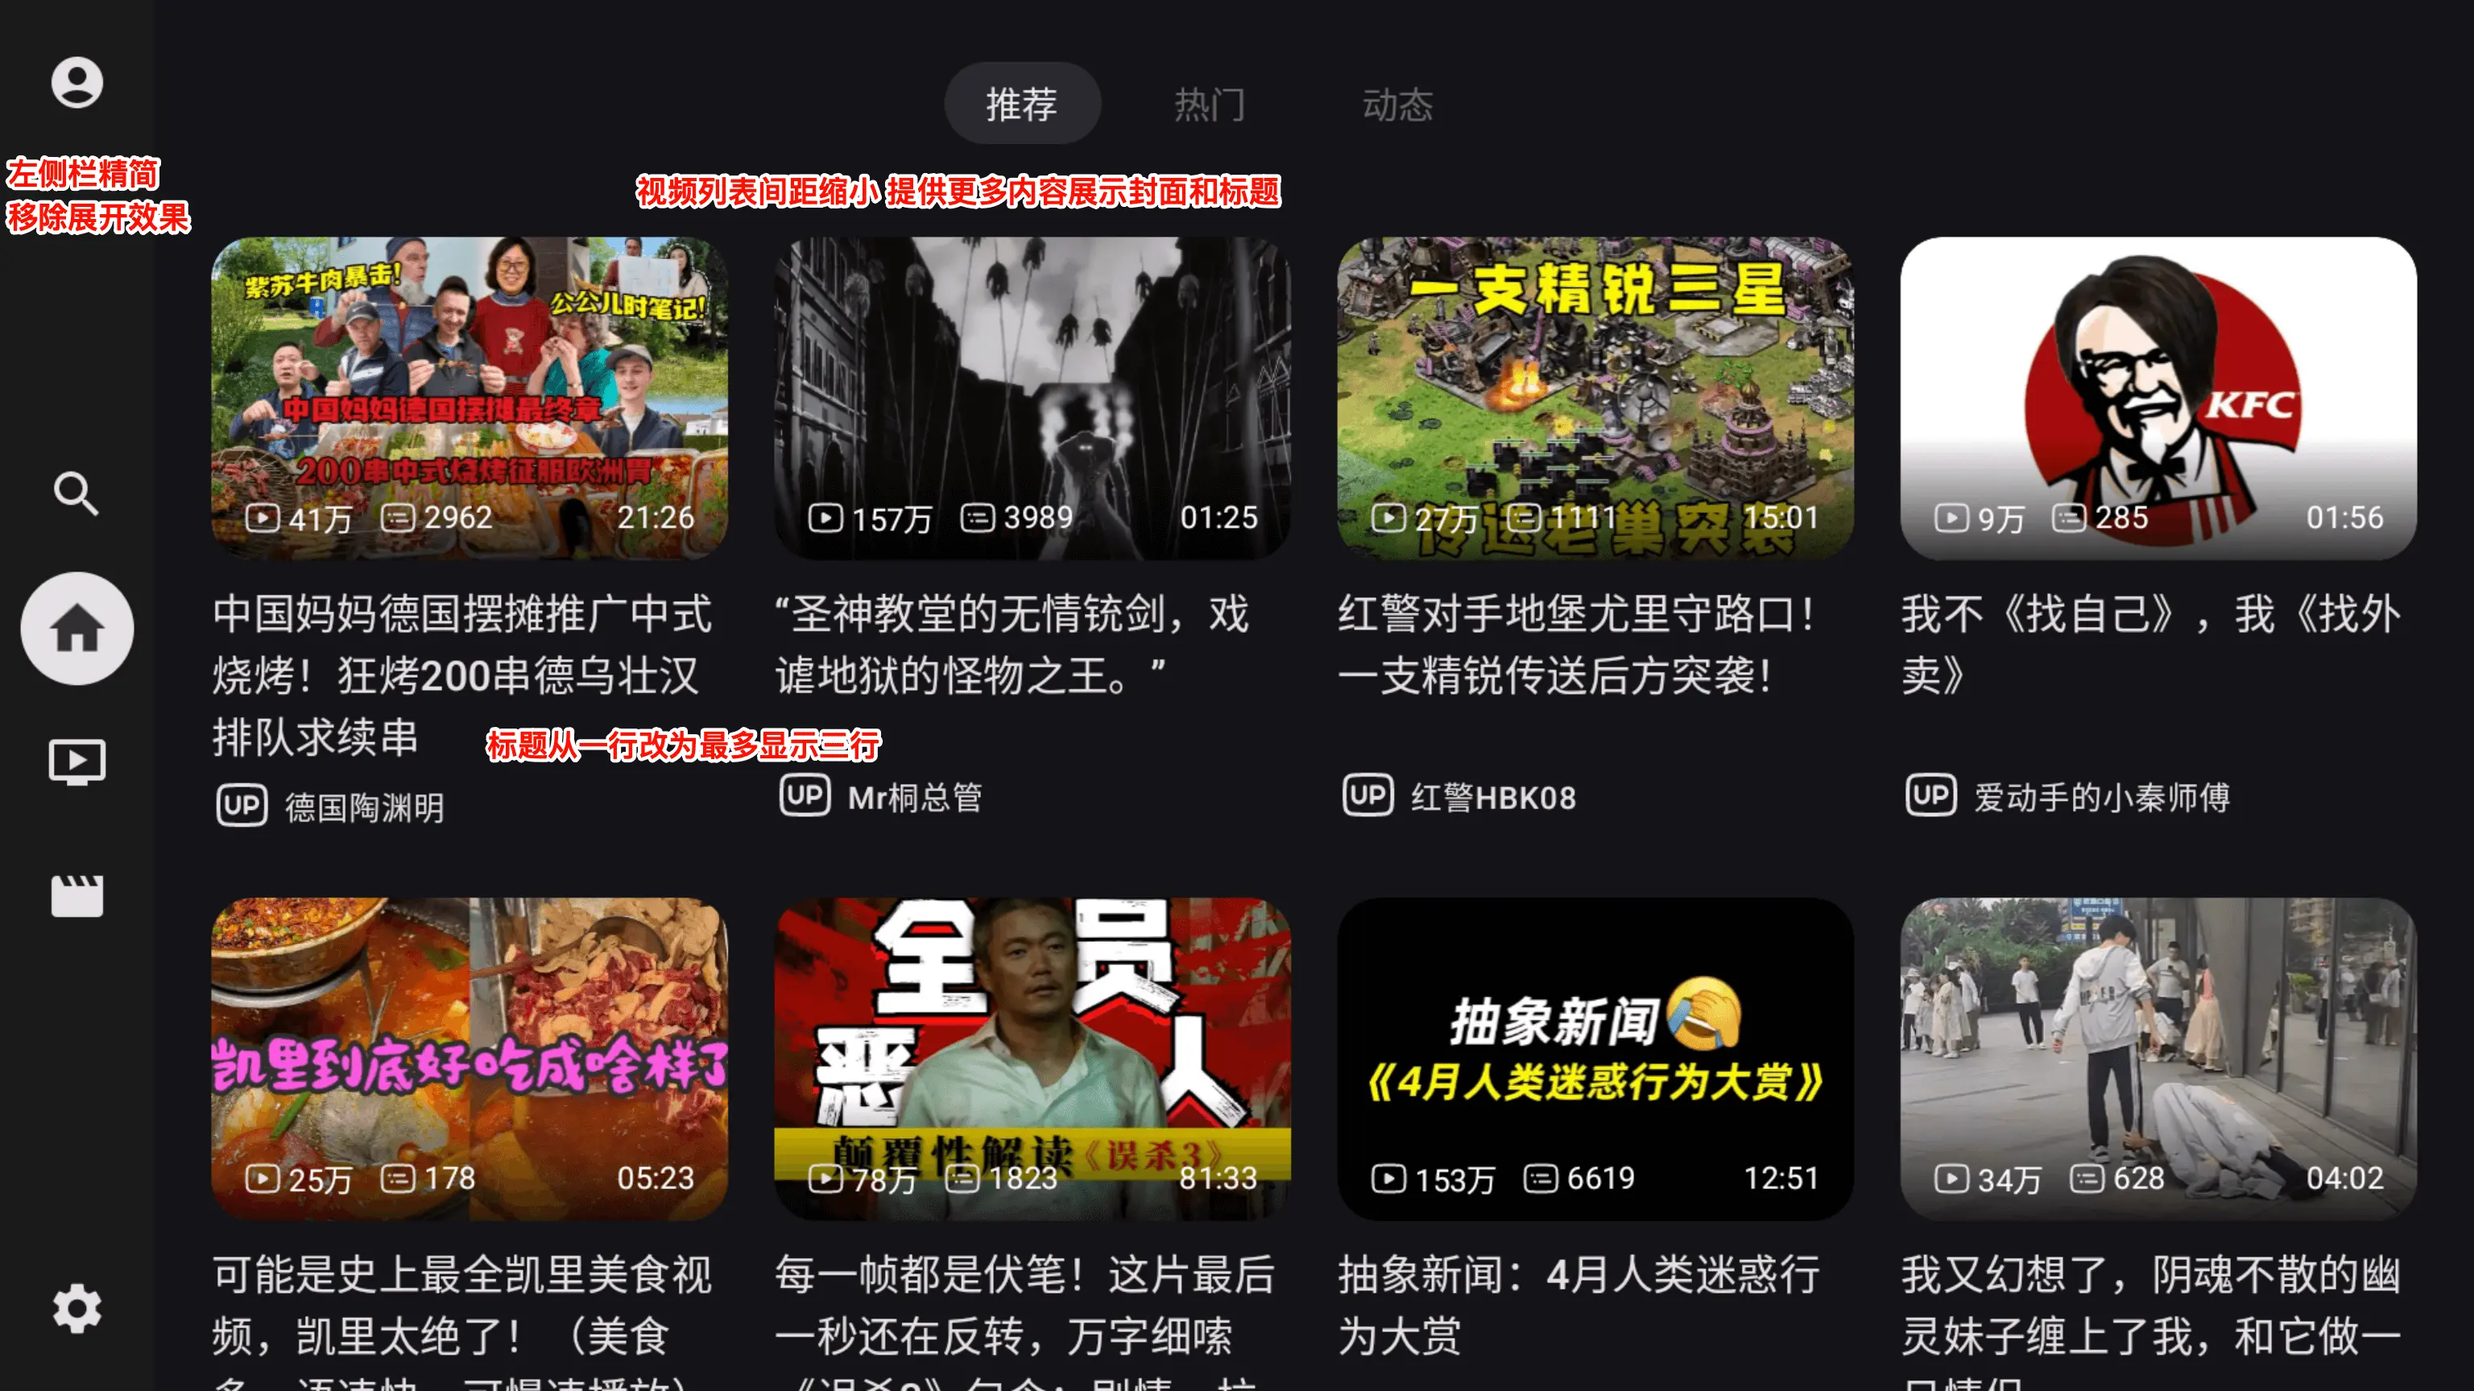
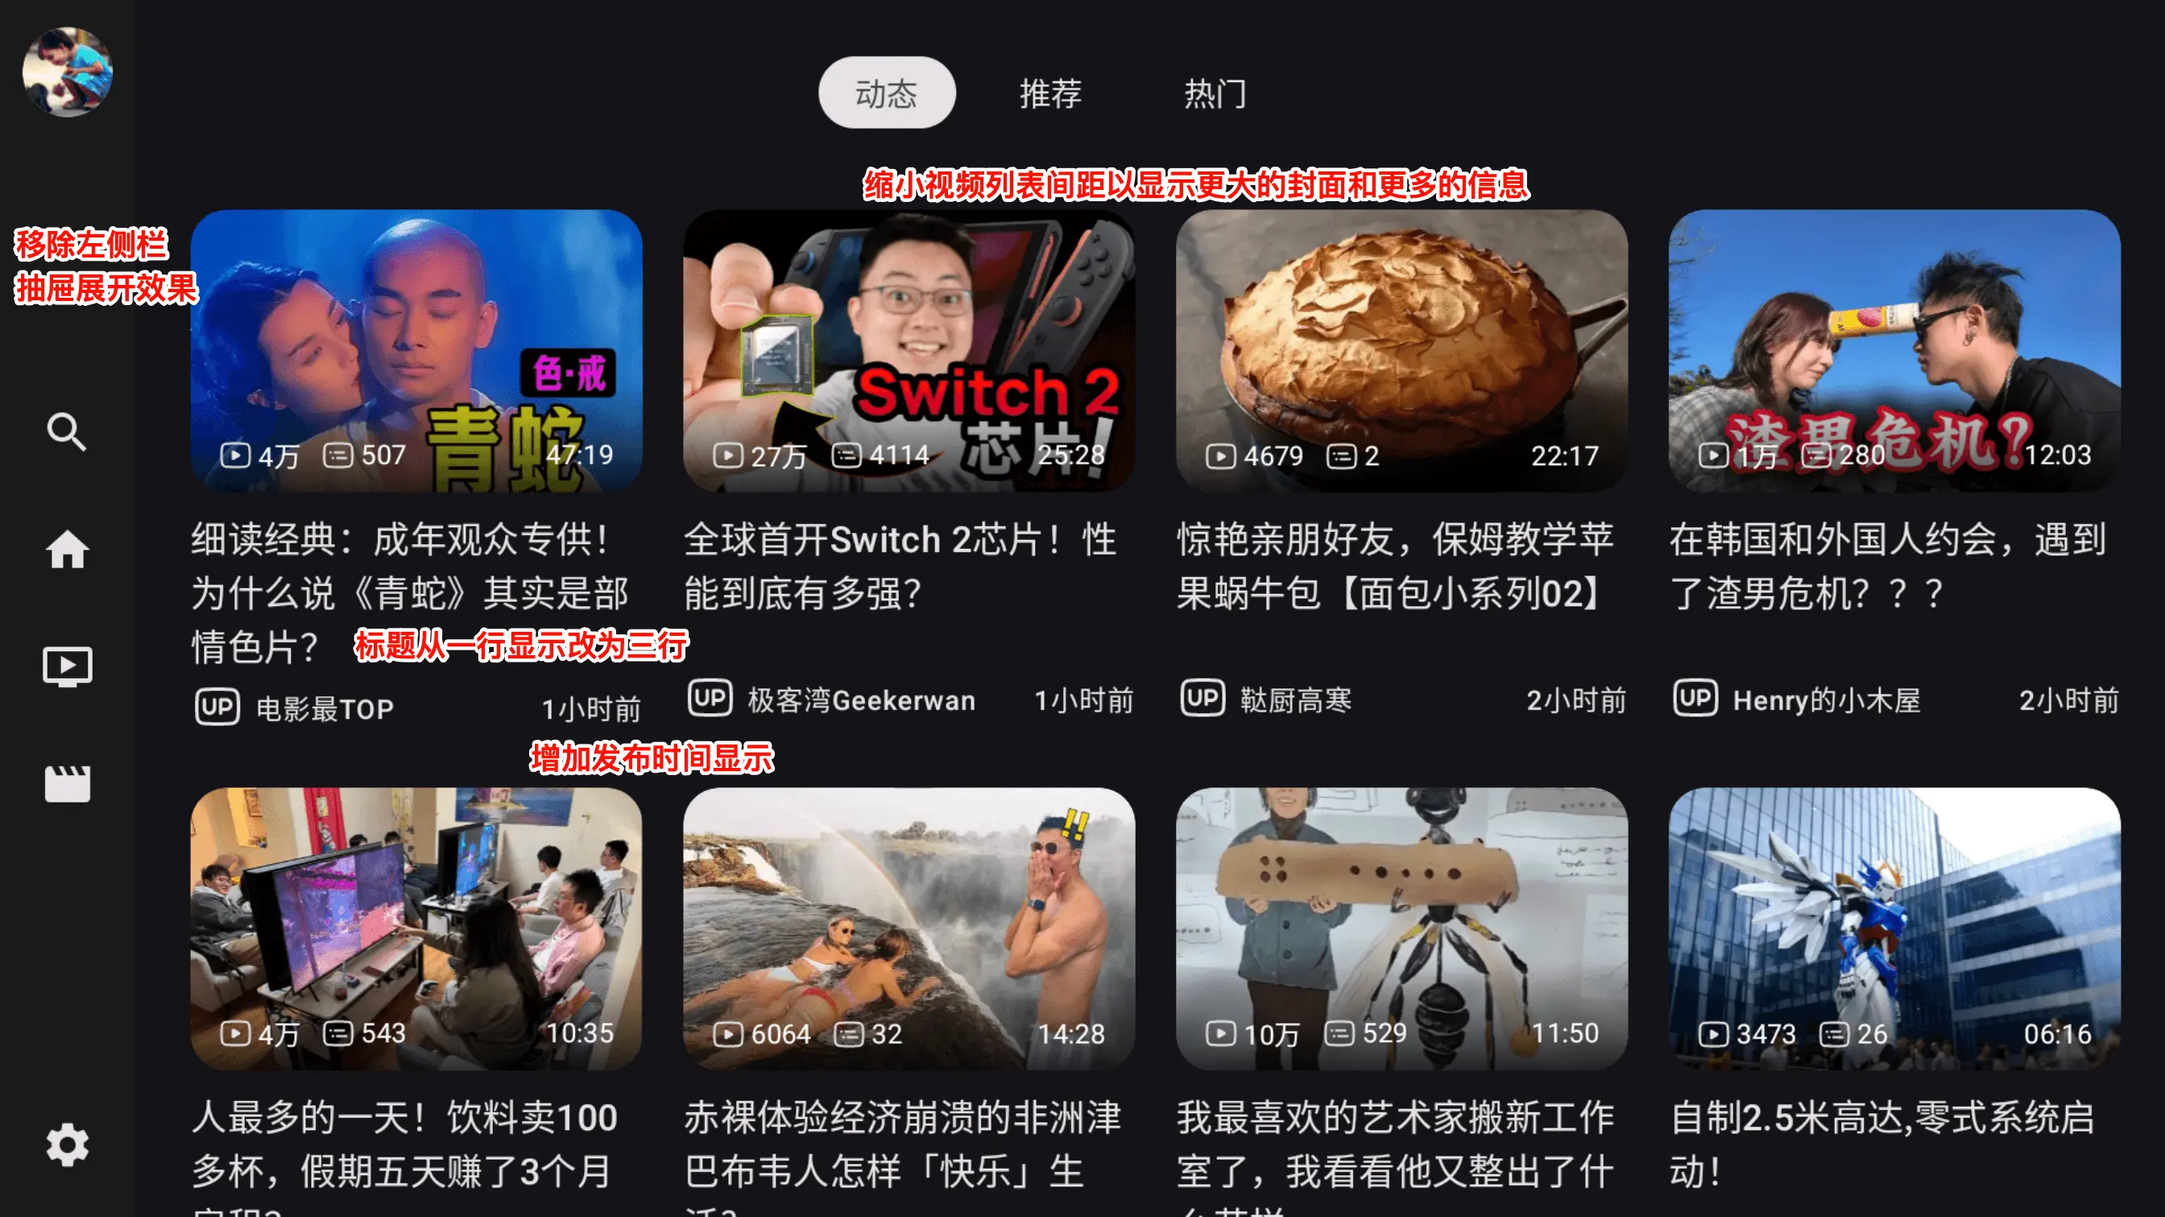
标题下方显示发布时间（动态列表显示x时间前，其它列表显示具体时间）

diff --git a/bili-api/src/main/kotlin/dev/aaa1115910/biliapi/entity/ugc/UgcItem.kt b/bili-api/src/main/kotlin/dev/aaa1115910/biliapi/entity/ugc/UgcItem.kt
@@ -3,6 +3,10 @@ package dev.aaa1115910.biliapi.entity.ugc
 import dev.aaa1115910.biliapi.http.entity.home.RcmdIndexData
 import dev.aaa1115910.biliapi.http.entity.home.RcmdTopData
 import dev.aaa1115910.biliapi.util.convertStringTimeToSeconds
+import java.text.SimpleDateFormat
+import java.util.Calendar
+import java.util.Locale
+import java.util.TimeZone
 
 data class UgcItem(
     val aid: Long,
@@ -13,7 +17,8 @@ data class UgcItem(
     val play: Int,
     val danmaku: Int,
     val duration: Int,
-    val idx: Int = -1
+    val idx: Int = -1,
+    val pubTime: String? = null,
 ) {
     companion object {
         fun fromRcmdItem(rcmdItem: RcmdIndexData.RcmdItem) =
@@ -54,7 +59,8 @@ data class UgcItem(
                 author = rcmdItem.owner?.name ?: "",
                 play = rcmdItem.stat?.view ?: -1,
                 danmaku = rcmdItem.stat?.danmaku ?: -1,
-                duration = rcmdItem.duration
+                duration = rcmdItem.duration,
+                pubTime = rcmdItem.pubdate.smartDate
             )
 
         fun fromVideoInfo(videoInfo: dev.aaa1115910.biliapi.http.entity.video.VideoInfo) =
@@ -65,7 +71,8 @@ data class UgcItem(
                 author = videoInfo.owner.name,
                 cover = videoInfo.pic,
                 play = videoInfo.stat.view,
-                danmaku = videoInfo.stat.danmaku
+                danmaku = videoInfo.stat.danmaku,
+                pubTime = videoInfo.pubdate.smartDate
             )
 
         fun fromSmallCoverV5(card: bilibili.app.card.v1.SmallCoverV5) =
@@ -88,7 +95,8 @@ data class UgcItem(
                 author = item.name,
                 cover = item.cover,
                 play = item.play ?: -1,
-                danmaku = item.danmaku ?: -1
+                danmaku = item.danmaku ?: -1,
+                pubTime = item.pubDate.smartDate
             )
     }
 }
@@ -100,3 +108,42 @@ private fun convertStringTimeToSeconds(time: String): Int {
     val seconds = parts[parts.size - 1].toInt()
     return (hours * 3600) + (minutes * 60) + seconds
 }
+
+/**
+ * 智能日期格式化 (兼容低版本 Android)
+ * @param timeZone 时区 (默认系统时区)
+ */
+fun Long.toSmartDate(timeZone: TimeZone = TimeZone.getDefault()): String? {
+    if (this <= 0) return null
+    try {
+        // 自动识别秒级或毫秒级时间戳
+        // 秒级时间戳通常小于等于10位数，目前直到2286年都是10位数
+        // 毫秒级时间戳通常为13位数
+        val timeInMillis = if (this < 10000000000L) this * 1000L else this
+
+        // 创建日历实例
+        val cal = Calendar.getInstance(timeZone).apply {
+            this.timeInMillis = timeInMillis
+        }
+
+        // 获取当前年份
+        val currentYear = Calendar.getInstance(timeZone).get(Calendar.YEAR)
+
+        // 动态格式选择
+        val pattern = if (cal.get(Calendar.YEAR) == currentYear) {
+            "M月d日HH:mm"
+        } else {
+            "yyyy年M月d日HH:mm"
+        }
+
+        // 线程安全的日期格式化
+        return SimpleDateFormat(pattern, Locale.CHINESE).apply {
+            this.timeZone = timeZone
+        }.format(cal.time)
+    } catch (e: Exception) {
+        return null
+    }
+}
+
+val Int.smartDate: String?
+    get() = this.toLong().toSmartDate()

diff --git a/app/src/main/kotlin/dev/aaa1115910/bv/component/videocard/SmallVideoCard.kt b/app/src/main/kotlin/dev/aaa1115910/bv/component/videocard/SmallVideoCard.kt
@@ -114,7 +114,8 @@ fun SmallVideoCardContent(
                 translationY = infoOffsetY
             },
             title = data.title,
-            upName = data.upName
+            upName = data.upName,
+            pubTime = data.pubTime
         )
     }
 }
@@ -257,11 +258,12 @@ fun CardCover(
 private fun ColumnScope.CardInfo(
     modifier: Modifier = Modifier,
     title: String,
-    upName: String
+    upName: String,
+    pubTime: String?
 ) {
-    Column(modifier = modifier) {
+    Column(modifier = modifier.fillMaxWidth()) {
         Text(
-            modifier = modifier,
+            modifier = Modifier,
             text = title,
             style = MaterialTheme.typography.titleMedium,
             maxLines = 3,
@@ -270,17 +272,28 @@ private fun ColumnScope.CardInfo(
         )
         Spacer(modifier = Modifier.height(4.dp))
         Row(
-            modifier = modifier,
+            modifier = Modifier.fillMaxWidth(),
             verticalAlignment = Alignment.CenterVertically,
             horizontalArrangement = Arrangement.spacedBy(4.dp)
         ) {
             UpIcon()
             Text(
+                modifier = Modifier
+                    .weight(1f)
+                    .padding(end = 2.dp),
                 text = upName,
                 style = MaterialTheme.typography.labelMedium,
                 maxLines = 1,
                 overflow = TextOverflow.Ellipsis
             )
+            pubTime?.let {
+                Text(
+                    text = it,
+                    style = MaterialTheme.typography.labelMedium,
+                    maxLines = 1,
+                    overflow = TextOverflow.Visible
+                )
+            }
         }
     }
 }
@@ -292,10 +305,11 @@ fun SmallVideoCardWithoutFocusPreview() {
         avid = 0,
         title = "震惊！太震惊了！真的是太震惊了！我的天呐！真TMD震惊！",
         cover = "http://i2.hdslb.com/bfs/archive/af17fc07b8f735e822563cc45b7b5607a491dfff.jpg",
-        upName = "bishi",
+        upName = "震惊！太震惊了！真的是太震惊了！我的天呐！真TMD震惊！",
         play = 2333,
         danmaku = 666,
-        time = 2333 * 1000
+        time = 2333 * 1000,
+        pubTime = "3小时前"
     )
     BVTheme {
         Surface(
@@ -319,7 +333,8 @@ fun SmallVideoCardWithFocusPreview() {
         upName = "bishi",
         play = 2333,
         danmaku = 666,
-        time = 2333 * 1000
+        time = 2333 * 1000,
+        pubTime = "3小时前"
     )
     BVTheme {
         Surface(
@@ -345,7 +360,8 @@ fun SmallVideoCardsPreview() {
         upName = "bishi",
         play = 2333,
         danmaku = 666,
-        time = 2333 * 1000
+        time = 2333 * 1000,
+        pubTime = "3小时前"
     )
     BVTheme {
         LazyVerticalGrid(

diff --git a/bili-api/src/main/kotlin/dev/aaa1115910/biliapi/entity/user/Dynamic.kt b/bili-api/src/main/kotlin/dev/aaa1115910/biliapi/entity/user/Dynamic.kt
@@ -49,6 +49,7 @@ data class DynamicVideoData(
  * @property duration 视频时长，单位秒
  * @property play 视频播放量
  * @property danmaku 视频弹幕数
+ * @property pubTime 发布时间
  */
 data class DynamicVideo(
     val aid: Long,
@@ -61,7 +62,8 @@ data class DynamicVideo(
     val author: String,
     val duration: Int,
     val play: Int,
-    val danmaku: Int
+    val danmaku: Int,
+    val pubTime: String? = null,
 ) {
     companion object {
         fun fromDynamicVideoItem(item: dev.aaa1115910.biliapi.http.entity.dynamic.DynamicItem): DynamicVideo {
@@ -77,7 +79,8 @@ data class DynamicVideo(
                 author = author.name,
                 duration = convertStringTimeToSeconds(archive.durationText),
                 play = convertStringPlayCountToNumberPlayCount(archive.stat.play),
-                danmaku = convertStringPlayCountToNumberPlayCount(archive.stat.danmaku)
+                danmaku = convertStringPlayCountToNumberPlayCount(archive.stat.danmaku),
+                pubTime = author.pubTime
             )
         }
 

diff --git a/app/src/main/kotlin/dev/aaa1115910/bv/viewmodel/user/FavoriteViewModel.kt b/app/src/main/kotlin/dev/aaa1115910/bv/viewmodel/user/FavoriteViewModel.kt
@@ -10,11 +10,7 @@ import dev.aaa1115910.biliapi.entity.FavoriteFolderMetadata
 import dev.aaa1115910.biliapi.entity.FavoriteItemType
 import dev.aaa1115910.biliapi.repositories.FavoriteRepository
 import dev.aaa1115910.bv.entity.carddata.VideoCardData
-import dev.aaa1115910.bv.util.Prefs
-import dev.aaa1115910.bv.util.addWithMainContext
-import dev.aaa1115910.bv.util.fInfo
-import dev.aaa1115910.bv.util.fWarn
-import dev.aaa1115910.bv.util.swapList
+import dev.aaa1115910.bv.util.*
 import io.github.oshai.kotlinlogging.KotlinLogging
 import kotlinx.coroutines.Dispatchers
 import kotlinx.coroutines.Job

diff --git a/app/src/main/kotlin/dev/aaa1115910/bv/screen/main/home/RecommendScreen.kt b/app/src/main/kotlin/dev/aaa1115910/bv/screen/main/home/RecommendScreen.kt
@@ -71,7 +71,8 @@ fun RecommendScreen(
                         play = with(item.play) { if (this == -1) null else this },
                         danmaku = with(item.danmaku) { if (this == -1) null else this },
                         upName = item.author,
-                        time = item.duration * 1000L
+                        time = item.duration * 1000L,
+                        pubTime = item.pubTime
                     ),
                     onClick = { onClickVideo(item) },
                     onFocus = { currentFocusedIndex = index }

diff --git a/app/src/main/kotlin/dev/aaa1115910/bv/screen/main/home/PopularScreen.kt b/app/src/main/kotlin/dev/aaa1115910/bv/screen/main/home/PopularScreen.kt
@@ -70,7 +70,8 @@ fun PopularScreen(
                         play = with(item.play) { if (this == -1) null else this },
                         danmaku = with(item.danmaku) { if (this == -1) null else this },
                         upName = item.author,
-                        time = item.duration * 1000L
+                        time = item.duration * 1000L,
+                        pubTime = item.pubTime
                     ),
                     onClick = { onClickVideo(item) },
                     onFocus = { currentFocusedIndex = index }

diff --git a/app/src/main/kotlin/dev/aaa1115910/bv/screen/main/home/DynamicsScreen.kt b/app/src/main/kotlin/dev/aaa1115910/bv/screen/main/home/DynamicsScreen.kt
@@ -79,7 +79,8 @@ fun DynamicsScreen(
                             play = item.play,
                             danmaku = item.danmaku,
                             upName = item.author,
-                            time = item.duration * 1000L
+                            time = item.duration * 1000L,
+                            pubTime = item.pubTime
                         ),
                         onClick = { onClickVideo(item) },
                         onFocus = { currentFocusedIndex = index }

diff --git a/app/src/main/kotlin/dev/aaa1115910/bv/screen/main/ugc/UgcCommon.kt b/app/src/main/kotlin/dev/aaa1115910/bv/screen/main/ugc/UgcCommon.kt
@@ -105,7 +105,8 @@ fun UgcRegionScaffold(
                         play = item.play,
                         danmaku = item.danmaku,
                         upName = item.author,
-                        time = item.duration * 1000L
+                        time = item.duration * 1000L,
+                        pubTime = item.pubTime
                     ),
                     onClick = { VideoInfoActivity.actionStart(context, item.aid) },
                     onFocus = { currentFocusedIndex = index }

diff --git a/app/src/main/kotlin/dev/aaa1115910/bv/entity/carddata/VideoCardData.kt b/app/src/main/kotlin/dev/aaa1115910/bv/entity/carddata/VideoCardData.kt
@@ -15,7 +15,8 @@ data class VideoCardData(
     val time: Long? = null,
     var timeString: String = "",
     val jumpToSeason: Boolean = false,
-    val epId: Int? = null
+    val epId: Int? = null,
+    val pubTime: String? = null,
 ) {
     init {
         play?.let {

diff --git a/README.md b/README.md
@@ -16,44 +16,37 @@ BV 是一款 [哔哩哔哩](https://www.bilibili.com) 的第三方 `Android` 应
 首先致敬一下原作者，对其持之以恒的更新保持respect🫡。
 本项目也会持续合入作者的更新，以及不断加入我自己的定制修改
 
-# 修改
-主要在原bv的基础上做了一些符合我个人喜好的修改，包括（只有标Done的部分才是已经做完的，其它都是画饼）：
 ![screenshots.webp](screenshots.webp)
 
-### UI变更
-##### Done✅
-##### 1. 移除首页左侧的抽屉展开效果，避免展开时占用首页信息流的展示
-##### 2. 缩减视频列表的各种间距
-##### 3. 视频标题从只显示1行改为3行
+# 修改
+主要在原bv的基础上做了一些符合我个人喜好的修改，包括：
 
-##### Todo
+### 已经完成的（Done✅）
+1. ##### 移除首页左侧的抽屉展开效果，避免频繁展开收起，以及占用右侧信息流空间
+    移除抽屉效果很简单，但为了让移除后左侧栏的各个入口焦点和右侧内容要完全绑定上，花了不短的时间去调试修改。
+最终还通过了一些奇技淫巧来让焦点变换更加符合直觉，上下左右都让焦点跳到应该到的位置。
+初次以外还有一些小的优化，比如内容页按下返回键会回到左侧栏而不是进入退出APP流程，缩短双击退出的判断时长等
+2. ##### 回到左侧栏后再回到内容页，会恢复上次已选中的Tab位置
+3. ##### 视频标题从只显示1行改为3行、缩减视频列表的各种间距已提供更多内容显示封面和标题
+4. ##### 标题下方显示发布时间（动态列表显示x时间前，其它列表显示具体时间）
+5. ##### 已登录情况下，首页 TAB 会从“推荐-热门-动态”，变更顺序为“动态-推荐-热门”
+6. ##### 设置页不再作为单独页面独立打开（本意是为了解决跳转不到设置入口而改的，但问题原因不在这里，这个改动还是保留了）
+
+### 待处理的Todo
 1. 播放页进度条展示优化，现在的太大有点影响视频画面
+2. 点击封面直接播放视频而不是跳转信息页
+3. 调整播放时上下左右呼出的内容，主要配合第一点，不展示详情页后需要给出详情页入口
+4. 优化各种case下优化返回键逻辑，比如拉起进度条时返回是关闭进度条而不是关闭播放页
+5. 左右拖动后立刻快进快退不需要再点确认
 
-### 交互变更
-##### Done✅
-##### 1. 内容页按下返回键会回到左侧栏而不是进入退出APP流程
-##### 2. 回到左侧栏后再回到内容页，会恢复上次已选中的Tab位置
-##### 3. 已登录的话，首页 TAB 会从“推荐-热门-动态”，变更顺序为“动态-推荐-热门”
-##### 4. 优化焦点处理，相同的页面跳转操作，可以按更少次遥控器
-##### 5. 设置页不再作为单独页面独立打开
-
-##### Todo
-1. 点击封面直接播放视频而不是跳转信息页
-2. 调整播放时上下左右呼出的内容，主要配合第一点，不展示详情页后需要给出详情页入口
-3. 优化各种case下优化返回键逻辑，比如拉起进度条时返回是关闭进度条而不是关闭播放页
-4. 左右拖动后立刻快进快退不需要再点确认
-
-### 功能变更
-##### Todo
+### 一些想法的Todo
 1. 播放页和详情页增加点赞、投币、一键三连入口，支持Up创作，不知道作者为什么没加
 2. 视频封面标题下方增加发布时间，就像 BBLL 那样（目前接口里好像没这个信息，得看看怎么加）
 3. 动态列表增加按时间轴跳转（比如按天快速跳，方便从几天前开始追更），或者支持一键跳到上次看到的时间段（可能难度比较大）
 4. 增加快捷调整倍速播放，现在的调整路径有点长
 
 ### 性能优化
-##### Done✅
-##### 对一些动画做了优化
-##### Todo待处理
+目前只对一些动画做了优化
 
 # 安装
 ### [Release](https://github.com/Leelion96/bv/releases)
